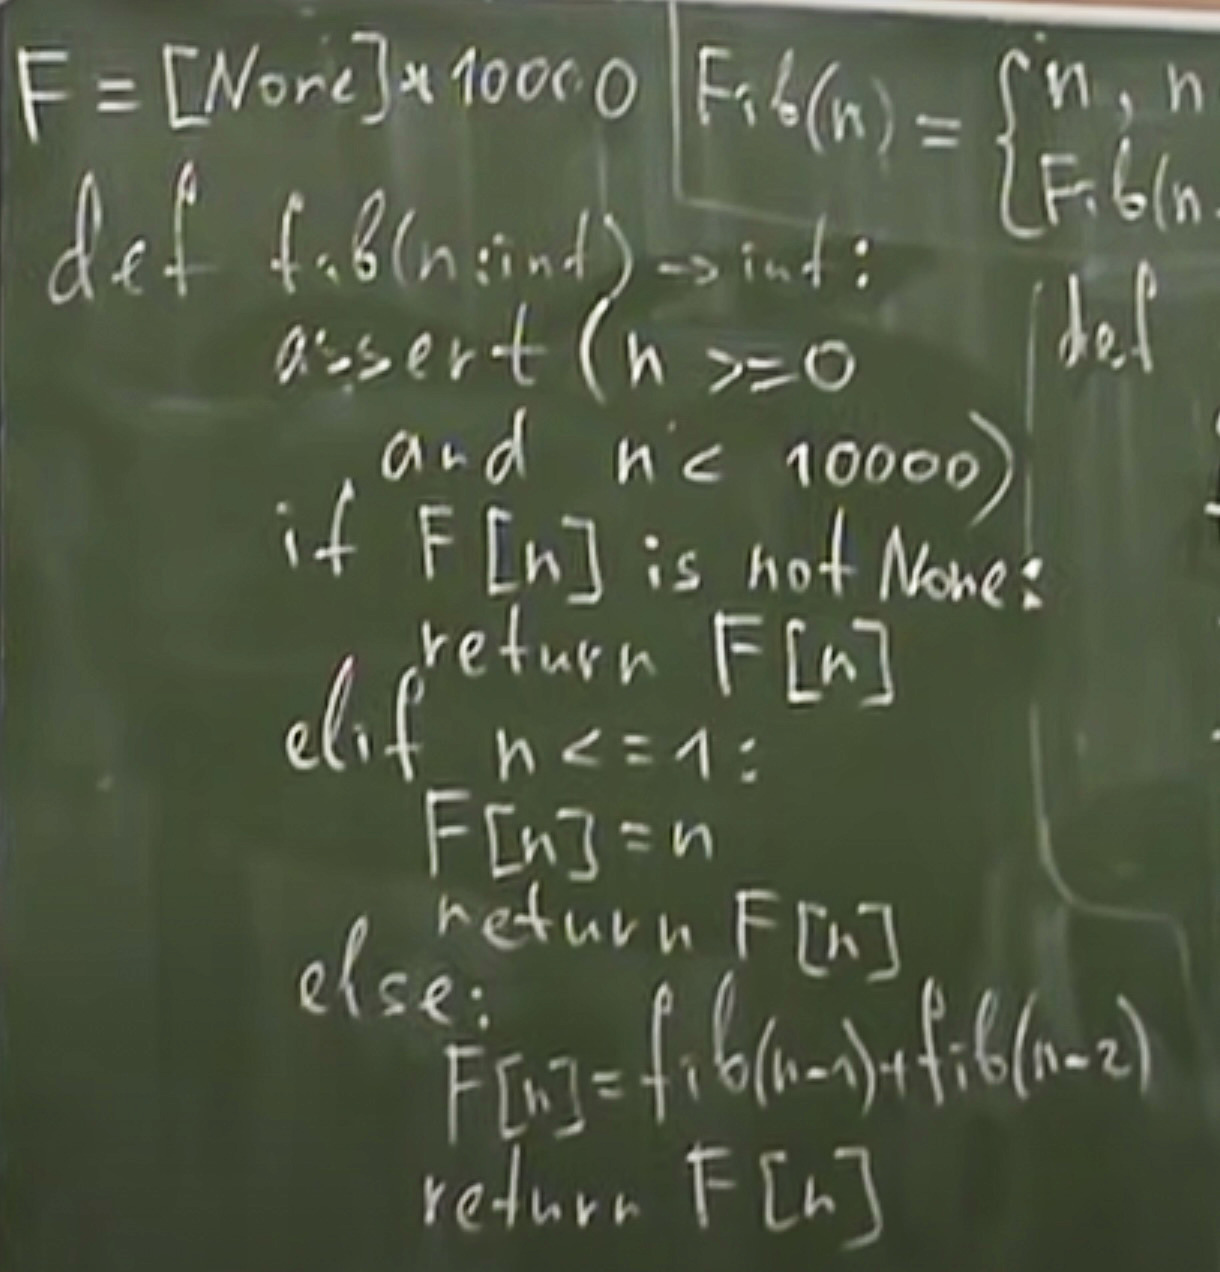
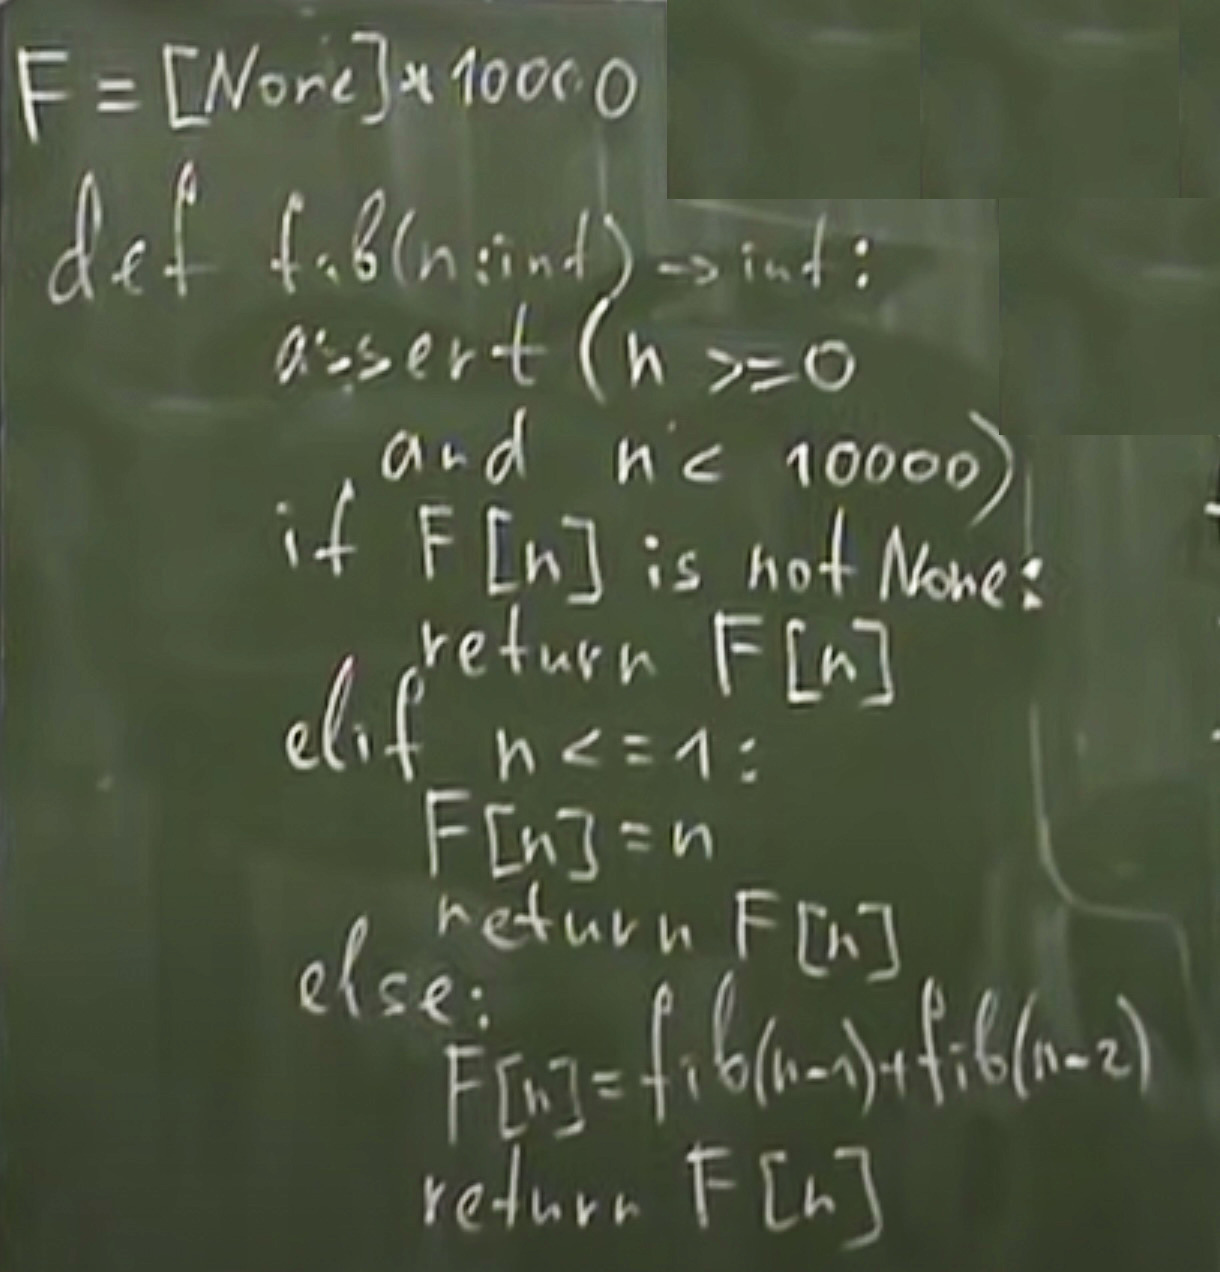
Задача о рюкзаке рекурсивно и динамически

Changed region(s): [[0.5295, 0.0, 1.0, 0.3373], [0.9967, 0.3066, 1.0, 0.3679]]

diff --git a/README.md b/README.md
@@ -3928,7 +3928,7 @@ else:
 
 ***Рекурсия*** - это способ решения задачи через вызов подзадач, аналогичных исходной задачи, но меньших по масштабу 
 
-***Крайний случай *** - это способ решения самой простой задачи, которая не требует вызова решения подзадачи. 
+***Крайний случай*** - это способ решения самой простой задачи, которая не требует вызова решения подзадачи. 
 
 ***Рекурсия с кешированием*** - это вариант динамического программирования, в котором используется рекурсия
 
@@ -3967,14 +3967,16 @@ print(f[n]) # 120
 
 ```python
 def fib(n):
+    assert n >= 0
     if n <= 1:
-        return n
+  	    return n
     return fib(n-1) + fib(n-2)
 print(fib(10)) # 55
 ```
 
 ```python
 def fib(n):
+    assert n >= 0
     fib = [0, 1] + [0] * (n-1)
     # или можно записать иначе
     # fib = [None] * (n+1)
@@ -3993,21 +3995,76 @@ print(fib(5)) # 5
 
 <img alt="image" src="images/Рекурсия с кешированием2.jpg"> </img>
 
-***Задача о рюкзаке***
-
 ```python
+# число максимальных рекурсий в языке
+F = [None] * 10000  
 
-
+def fib(n:int) -> int:
+    assert ( n >= 0 and n < 10000)
+    if F[n] is not None:
+        return F[n]
+    elif n <= 1:
+        F[n] = n
+        return F[n]
+    else:
+        F[n] = fib(n-1) + fib(n-2)
+        return F[n]
+print(fib(10)) # 55
 ```
 
-<img alt="image" src="images/.jpg"> </img>
+или чуть короче
+```python
+# число максимальных рекурсий в языке
+F = [None] * 10000  
+
+def fib(n:int) -> int:
+    assert ( n >= 0 and n < 10000)
+    if F[n] is None:
+        if n <= 1:
+            F[n] = n
+        else:
+            F[n] = fib(n-1) + fib(n-2)
+    return F[n]
+print(fib(10)) # 55
+```
+
+***Задача о рюкзаке*** (NP - полная задача)
+
+И на данный момент не имеет другого решения кроме полнопереборного.
+
+Асимптотика:
+
+полный перебор - O(2^n)
+
+жадный алгоритм - брать самое ценное сразу, асимптотика зависит от кол-ва предметов, в худшем случаи будет квадратичной O(n^2)
+
+<img alt="image" src="images/Задача о рюкзаке1.jpg"> </img>
+
+Дискретная задача о рюкзаке. Применим динамическое программирование.
+
+M - максимально возможная масса
+N - количество элементов
+k - емкость рюкзака 
+
+```python
+F = [[0] * (N + 1) for i in range(M + 1)]
+for i in range (1, N + 1):
+    for k in range(1, M + 1):
+        if m[i] <= k: 
+            F[k][i] = max(F[k][i], v[i] + F[k-m[i]][i-1])
+        else:
+            F[k][i] = F[k][i-1]
+return F[M][N] # ответ
+```
+<img alt="image" src="images/Дискретная задача о рюкзаке1.jpg"> </img>
+
+<img alt="image" src="images/Дискретная задача о рюкзаке2.jpg"> </img>
 
 ---
 [К оглавлению](#contents)
 ### <a id="lection18" />Лекция №18
 
 ```python
-
 
 ```
 
@@ -4024,7 +4081,6 @@ print(fib(5)) # 5
 ### <a id="lection19" />Лекция №19
 
 ```python
-
 
 ```
 
